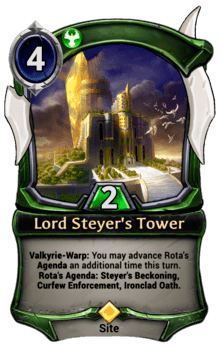
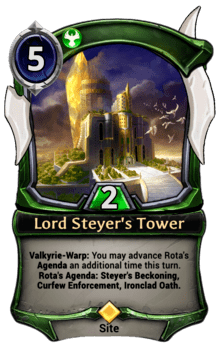
deploy: 8e0a3b7704a688f015c676e2110c0de70c9f9753

diff --git a/epc/index.html b/epc/index.html
@@ -3381,7 +3381,7 @@ Set10 #336;; 6FF; Izha Chi, Daredevil;
 Set10 #337;; 3FF; Scrapmetal Fury;
 Set10 #338;; 1T; Xumuc Whisper;
 Set10 #339;; 3F; Laser Blast;
-Set10 #340;; 4J; Lord Steyer's Tower;
+Set10 #340;; 5J; Lord Steyer's Tower;
 Set10 #341;; 1TS; Kudzu's Technique;
 Set10 #342;; 4FP; Shorthopper;
 Set10 #343;; 3TS; Venomous Nightshade;
@@ -3480,7 +3480,7 @@ Set1105 #21; 1X; 0; House Alliance;power, depleted
 Set1105 #22;; 4; Might of the Bastion;
 
 Set1107 #1;; 2F; Grenadin Uprising;
-Set1107 #2;; 4F; Eccentric Officer;
+Set1107 #2;; 5F; Eccentric Officer;
 Set1107 #3;; 1T; Privilege of Nobility;
 Set1107 #4;; 3T; Prosperity of the Reach;
 Set1107 #5;; 3JJ; Tarra, Ever Loyal;
@@ -3651,7 +3651,7 @@ Set11 #144;; 4SS; Waxing Moon;
 Set11 #145;; 4SSSS; Xumuc Poison;
 Set11 #146;; 5SS; Ambitious Mandevilla;
 Set11 #147;; 5SS; D'Angolo Might;
-Set11 #148;; 5SS; Elding of the Final Hour;
+Set11 #148;; 3SS; Elding of the Final Hour;
 Set11 #149;; 5SS; Hypnotic Valkyrie;
 Set11 #150;; 5S; Muck Devourer;
 Set11 #151;; 5SS; Send a Message;
@@ -3710,7 +3710,7 @@ Set11 #203;; 3; Hired Cutthroat;
 Set11 #204;; 3; Manufactured Force;
 Set11 #205;; 3; Undercover Enforcer;
 
-Set11 #414;; 3T; Javan, the Steel Crest ;
+Set11 #414;; 3T; Javan, the Steel Crest;
 </script>
 
 <!-- hack to allow us to create node modules for tests -->
